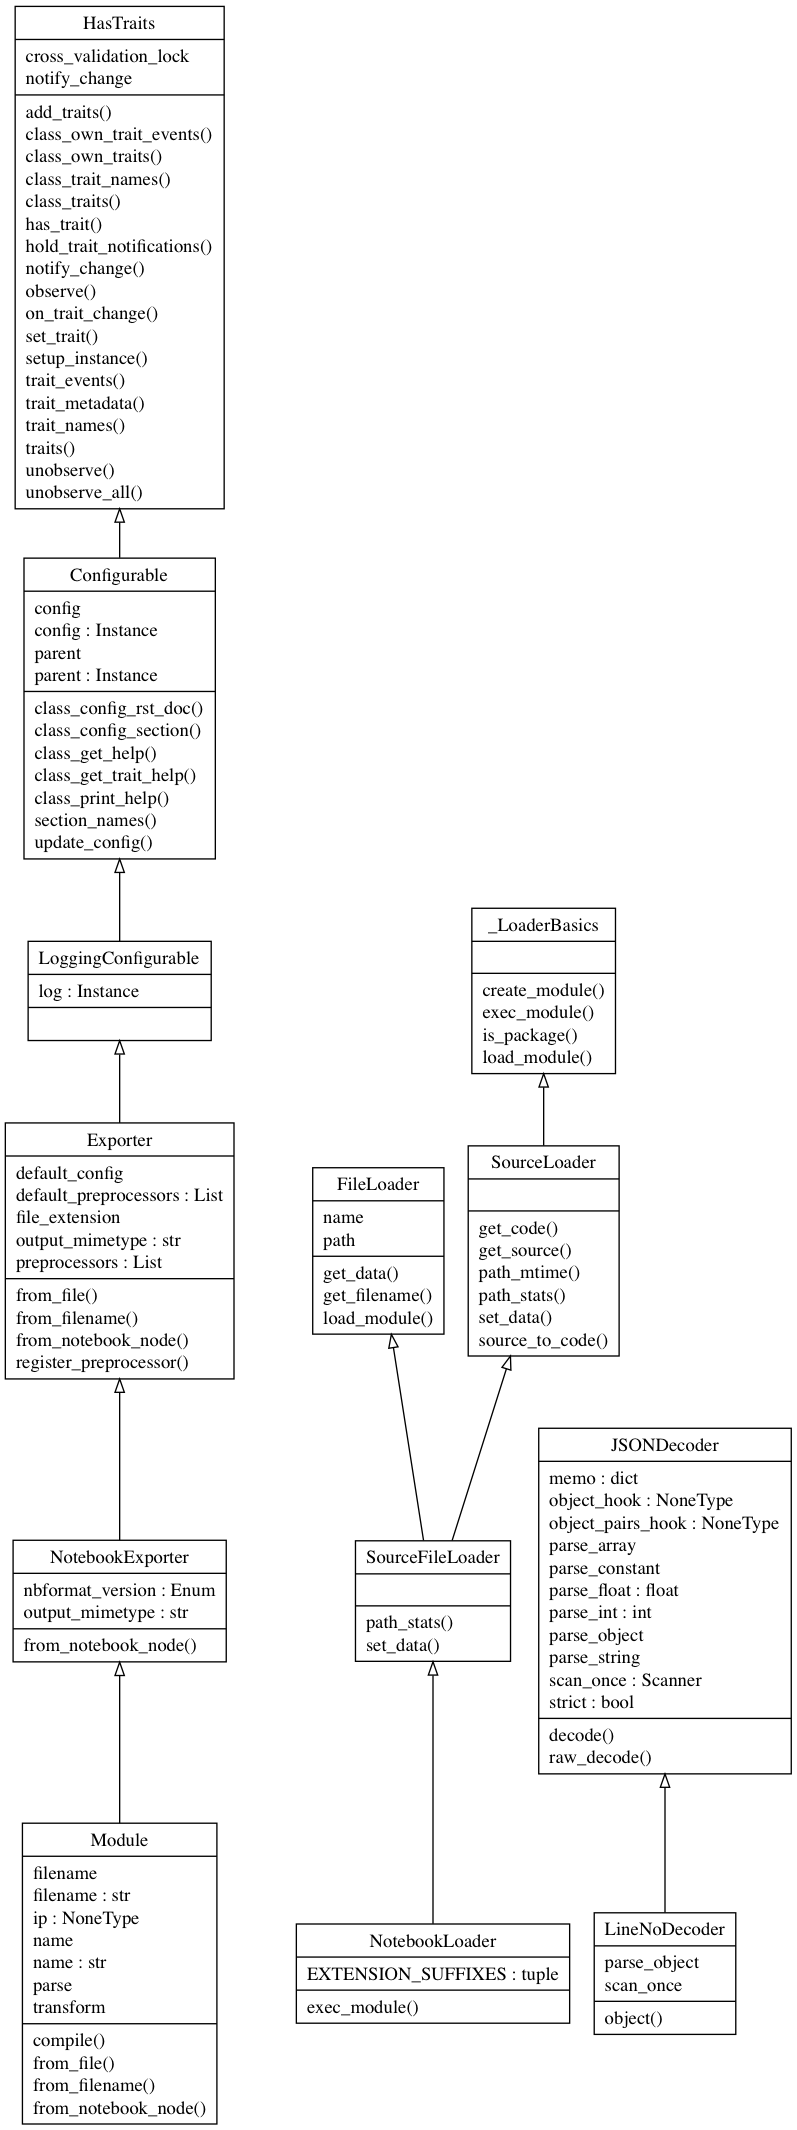
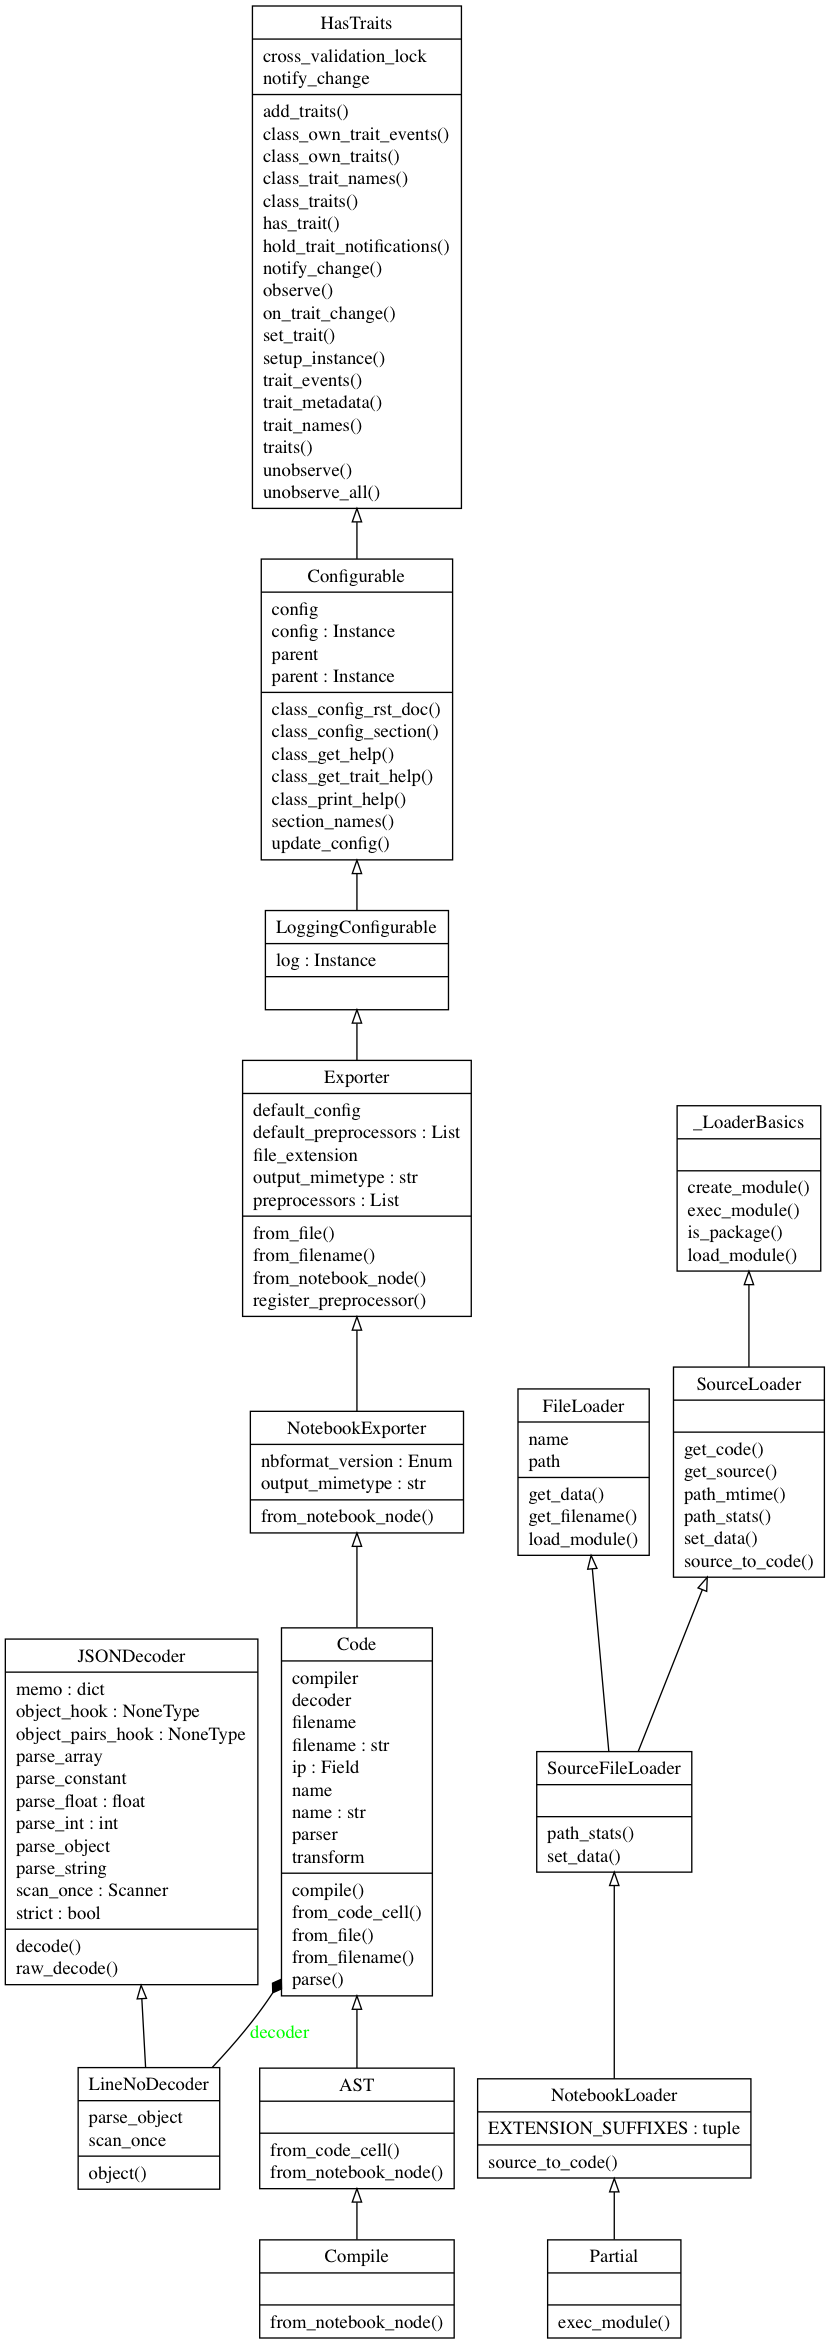
compile the template with the right traceback

diff --git a/readme.md b/readme.md
@@ -75,7 +75,7 @@ driven testing with __behave__.  Abide by a conventions in your functions and cl
 
     ..
     ----------------------------------------------------------------------
-    Ran 2 tests in 0.004s
+    Ran 2 tests in 0.005s
     
     OK
 
@@ -108,7 +108,7 @@ In fact, any `class` containing a `runTest` method is as a FunctionTestCase.
 
     .
     ----------------------------------------------------------------------
-    Ran 1 test in 0.001s
+    Ran 1 test in 0.002s
     
     OK
 
@@ -130,11 +130,13 @@ __hypothesis__ will infer strategies for typed functions; typing functions is a 
 
     .
     ----------------------------------------------------------------------
-    Ran 1 test in 0.173s
+    Ran 1 test in 0.197s
     
     OK
 
 
+
+### The Narrative Should include real data
 
 The function __f__ was executed __`100`__ times because could infer a testing strategy from the type annotations.
 
@@ -211,20 +213,42 @@ The output below illustrates a valid traceback to the `ipython-input` and python
           7 >> If you saved recently, then forget about it.
 
 
-    ~/rites/rites/__init__.py in from_notebook_node(Module, nb, resource, module)
-         94                     try: eval(Module.compile(
-         95                         cell['source'], lineno=cell['metadata'].get('lineno', 1), module=module),
-    ---> 96                         *[module.__dict__]*2)
-         97                     except BaseException as Exception:
-         98                         module.__complete__ = Exception
+    ~/rites/rites/rites.py in capture(loader, module)
+        174     with capture_output() as output:
+        175         try:
+    --> 176             super(type(loader), loader).exec_module(module)
+        177             module.__complete__ = True
+        178         except BaseException as Exception:
+
+
+    ~/rites/rites/template.ipynb in exec_module(Loader, module)
+
+
+    ~/rites/rites/rites.py in from_file(Module, file_stream, resources, **dict)
+         82         for str in ('name', 'filename'):
+         83             setattr(Compile, str, dict.pop(str, getattr(Compile, str)))
+    ---> 84         return Module.from_notebook_node(load(file_stream, cls=Module.decoder), resources, **dict)
+         85 
+         86     def from_filename(Module,  filename, resources=None, **dict):
+
+
+    ~/rites/rites/rites.py in from_notebook_node(AST, nb, resource, **dict)
+        115         module = ast.Module(body=[])
+        116         for cell in nb.cells:
+    --> 117             nodes = AST.from_code_cell(cell, **dict)
+        118             nodes and module.body.extend(nodes.body)
+        119         return ast.fix_missing_locations(module)
+
+
+    ~/rites/rites/template.ipynb in from_code_cell(Incremental, cell, **dict)
 
 
     ~/rites/readme.ipynb in <module>()
-        202     "        \n",
-        203     "    else:\n",
-    --> 204     "        assert False\n",
-        205     "        \n",
-        206     "Otherwise, the module is being imported and we deliberately create an error.\n",
+        455     "        \n",
+        456     "    else:\n",
+    --> 457     "        assert False\n",
+        458     "        \n",
+        459     "Otherwise, the module is being imported and we deliberately create an error.\n",
 
 
     AssertionError: 
@@ -242,9 +266,14 @@ Convert a document into other formats; Restart, Run All, `nbconvert`.
 
 
     [NbConvertApp] Converting notebook readme.ipynb to markdown
-    [NbConvertApp] Writing 6211 bytes to readme.md
+    [NbConvertApp] Writing 7045 bytes to readme.md
     parsing rites/__init__.py...
     parsing /Users/tonyfast/rites/rites/__init__.py...
+    parsing /Users/tonyfast/rites/rites/all.py...
+    parsing /Users/tonyfast/rites/rites/rites.py...
+    Warning: Could not load "/Users/tonyfast/anaconda/envs/p6/lib/graphviz/libgvplugin_pango.6.dylib" - file not found
+    Warning: Could not load "/Users/tonyfast/anaconda/envs/p6/lib/graphviz/libgvplugin_pango.6.dylib" - file not found
+    Warning: Could not load "/Users/tonyfast/anaconda/envs/p6/lib/graphviz/libgvplugin_pango.6.dylib" - file not found
     Warning: Could not load "/Users/tonyfast/anaconda/envs/p6/lib/graphviz/libgvplugin_pango.6.dylib" - file not found
     Warning: Could not load "/Users/tonyfast/anaconda/envs/p6/lib/graphviz/libgvplugin_pango.6.dylib" - file not found
     Warning: Could not load "/Users/tonyfast/anaconda/envs/p6/lib/graphviz/libgvplugin_pango.6.dylib" - file not found
